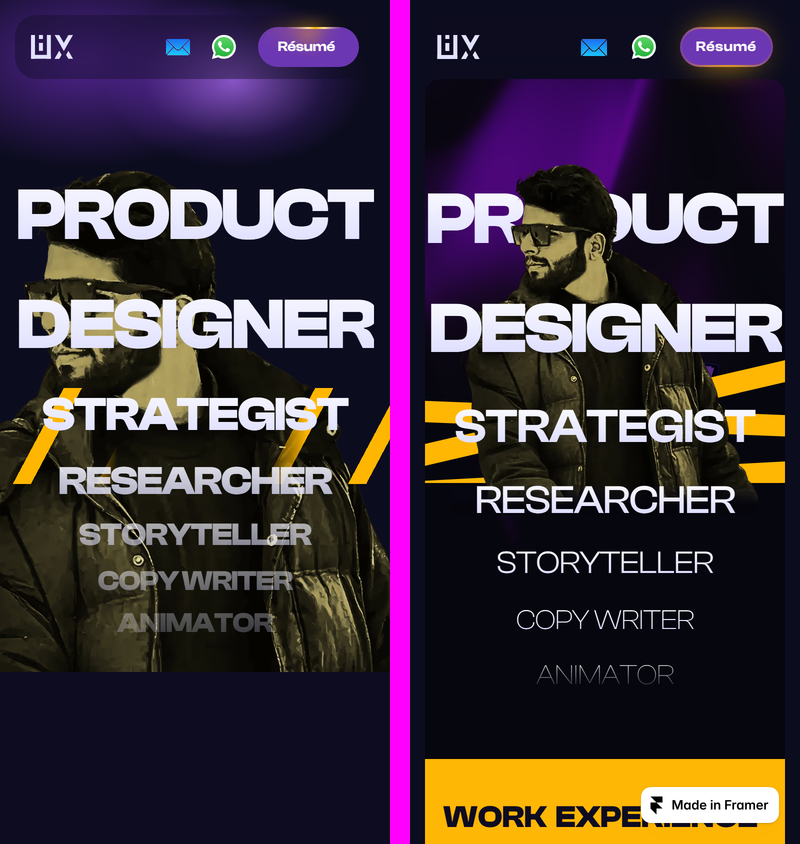
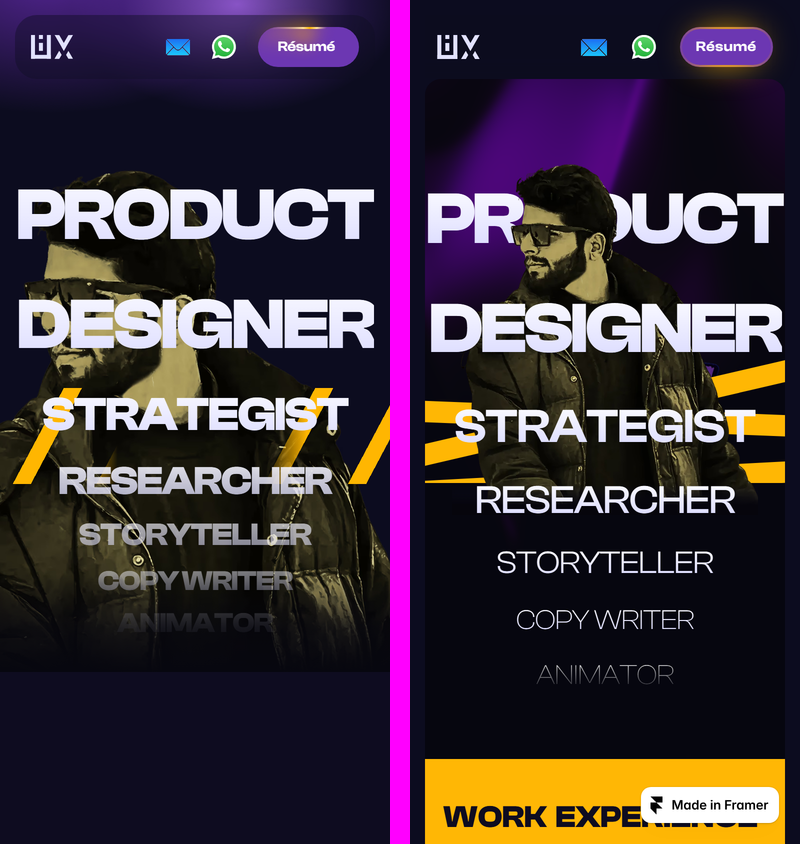
Hero: fix O centring, ripple, z-order, badge-lift, living background
1) O ring + WhatsApp icon now concentric on the O counter (nudged to the
   glyph's optical centre; line-box centre sat below it)
2) Ripple: dashed stroke, larger radius (scale 3.8), faster (1.1s), loops
3) Z-order per direction: aurora < portrait < role text (z4) < UTKARSH
   badge (z6). Role now renders in front of the portrait.
4) Badge hover: graffiti lifts translateY(-80px) revealing the info card
   below it (GPU transform); badge stays top-most. Gated to fine pointer;
   reduced-motion disables the transition.
5) Living background: two independently-drifting/scaling blob layers
   (pseudo-elements, long eased loops, transform/opacity only), still ramps
   to black at the bottom; frozen under reduced-motion.

Changed region(s): [[0.0, 0.0, 0.4688, 0.1848], [0.0938, 0.6777, 0.4688, 0.8009], [0.0, 0.7393, 0.0625, 0.8009]]

diff --git a/src/components/hero.css b/src/components/hero.css
@@ -10,22 +10,51 @@
 }
 
 /* Purple aurora background */
+/* Living aurora: a base wash + two independently-drifting blob layers (GPU transforms). */
 .hero__aurora {
   position: absolute;
-  inset: -12%;
+  inset: 0;
   z-index: 0;
+  overflow: hidden;
   background:
-    radial-gradient(38% 34% at 55% 20%, rgba(180, 110, 255, 0.75) 0%, rgba(140, 70, 235, 0.3) 45%, rgba(12, 12, 31, 0) 72%),
-    radial-gradient(44% 46% at 14% 30%, rgba(150, 60, 255, 0.8) 0%, rgba(110, 45, 210, 0.25) 44%, rgba(12, 12, 31, 0) 70%),
-    radial-gradient(50% 50% at 78% 22%, rgba(160, 80, 255, 0.72) 0%, rgba(110, 50, 195, 0.22) 46%, rgba(12, 12, 31, 0) 74%);
-  background-color: var(--bg-dark-3);
-  animation: aurora-drift 18s ease-in-out infinite alternate;
-  will-change: transform;
+    radial-gradient(46% 40% at 52% 16%, rgba(150, 70, 240, 0.5) 0%, rgba(90, 40, 180, 0.18) 46%, rgba(12, 12, 31, 0) 74%),
+    var(--bg-dark-3);
 }
-@keyframes aurora-drift {
-  0% { transform: translate3d(-1.5%, -1%, 0) scale(1.02); }
-  50% { transform: translate3d(2%, 1.5%, 0) scale(1.08); }
-  100% { transform: translate3d(-1%, 2%, 0) scale(1.04); }
+.hero__aurora::before,
+.hero__aurora::after {
+  content: '';
+  position: absolute;
+  border-radius: 50%;
+  will-change: transform, opacity;
+  filter: blur(10px);
+}
+/* upper-left violet blob */
+.hero__aurora::before {
+  width: 70%;
+  height: 80%;
+  left: -12%;
+  top: -22%;
+  background: radial-gradient(closest-side, rgba(150, 60, 255, 0.7) 0%, rgba(120, 50, 220, 0.25) 42%, rgba(12, 12, 31, 0) 72%);
+  animation: aurora-a 19s ease-in-out infinite alternate;
+}
+/* upper-right magenta/violet blob */
+.hero__aurora::after {
+  width: 66%;
+  height: 74%;
+  right: -14%;
+  top: -18%;
+  background: radial-gradient(closest-side, rgba(175, 95, 255, 0.65) 0%, rgba(120, 55, 210, 0.22) 44%, rgba(12, 12, 31, 0) 74%);
+  animation: aurora-b 24s ease-in-out infinite alternate;
+}
+@keyframes aurora-a {
+  0% { transform: translate3d(0, 0, 0) scale(1); opacity: 0.9; }
+  50% { transform: translate3d(14%, 8%, 0) scale(1.18); opacity: 1; }
+  100% { transform: translate3d(6%, -6%, 0) scale(1.05); opacity: 0.85; }
+}
+@keyframes aurora-b {
+  0% { transform: translate3d(0, 0, 0) scale(1.05); opacity: 0.8; }
+  50% { transform: translate3d(-12%, 10%, 0) scale(0.92); opacity: 1; }
+  100% { transform: translate3d(-4%, 4%, 0) scale(1.12); opacity: 0.88; }
 }
 /* bottom ramp to black (fades portrait bottom + bg) */
 .hero__fade {
@@ -40,12 +69,13 @@
 }
 
 /* Wordmark + role ticker */
+/* .hero__text is not a stacking context, so PRODUCT (z1, behind portrait) and the
+   role ticker (z4, above portrait) can layer independently. */
 .hero__text {
   position: absolute;
   top: calc(196 * var(--u));
   left: calc(44 * var(--u));
   width: calc(1353 * var(--u));
-  z-index: 1;
 }
 .hero__product,
 .role__word {
@@ -62,6 +92,8 @@
   margin: 0;
   font-size: calc(282 * var(--u));
   white-space: nowrap;
+  position: relative;
+  z-index: 1; /* behind portrait */
 }
 .hero__o {
   position: relative;
@@ -76,7 +108,7 @@
 /* WhatsApp reveal on hover (over the O counter) */
 .hero__o-wa {
   position: absolute;
-  top: 50%;
+  top: 45%;
   left: 50%;
   width: calc(150 * var(--u));
   height: calc(150 * var(--u));
@@ -107,29 +139,30 @@
   position: absolute;
   top: 50%;
   left: 50%;
-  width: calc(60 * var(--u));
-  height: calc(60 * var(--u));
-  margin: calc(-30 * var(--u)) 0 0 calc(-30 * var(--u));
+  width: calc(72 * var(--u));
+  height: calc(72 * var(--u));
+  margin: calc(-36 * var(--u)) 0 0 calc(-36 * var(--u));
   border-radius: 50%;
-  border: 2px solid rgba(37, 211, 102, 0.7);
+  border: calc(3 * var(--u)) dashed rgba(37, 211, 102, 0.85);
   opacity: 0;
+  will-change: transform, opacity;
 }
 @media (hover: hover) and (pointer: fine) {
   .hero__o:hover .hero__o-wa { opacity: 1; }
   .hero__o:hover .hero__wa { transform: scale(1); }
-  .hero__o:hover .hero__ripple { animation: o-ripple 1.8s ease-out infinite; }
-  .hero__o:hover .hero__ripple:nth-child(2) { animation-delay: 0.6s; }
-  .hero__o:hover .hero__ripple:nth-child(3) { animation-delay: 1.2s; }
+  .hero__o:hover .hero__ripple { animation: o-ripple 1.1s ease-out infinite; }
+  .hero__o:hover .hero__ripple:nth-child(2) { animation-delay: 0.37s; }
+  .hero__o:hover .hero__ripple:nth-child(3) { animation-delay: 0.74s; }
 }
 @keyframes o-ripple {
-  0% { transform: scale(0.6); opacity: 0.75; }
-  100% { transform: scale(2.6); opacity: 0; }
+  0% { transform: scale(0.45); opacity: 0.85; }
+  100% { transform: scale(3.8); opacity: 0; }
 }
 
 /* Rotating badge over the O */
 .badge {
   position: absolute;
-  top: 50%;
+  top: 45%;
   left: 50%;
   width: calc(224 * var(--u));
   height: calc(224 * var(--u));
@@ -157,6 +190,7 @@
   position: relative;
   overflow: hidden;
   width: 100%;
+  z-index: 4; /* above the portrait */
 }
 .role__stack { display: flex; flex-direction: column; will-change: transform; }
 .role__word {
@@ -198,19 +232,27 @@
 }
 .hero__face img { width: 100%; height: auto; }
 
-/* Graffiti wordmark */
+/* Graffiti "UTKARSH VERMA" badge — top-most; lifts 80px on hover to reveal the card below */
 .hero__graffiti {
   position: absolute;
-  z-index: 4;
+  z-index: 6; /* top-most */
   left: calc(605 * var(--u));
   top: calc(623 * var(--u));
   width: calc(231 * var(--u));
 }
-.hero__graffiti img { width: 100%; height: auto; display: block; }
+.hero__graffiti-img {
+  position: relative;
+  z-index: 2; /* above the card, so it covers/reveals it */
+  display: block;
+  transform: translateY(0);
+  transition: transform 0.45s cubic-bezier(0.22, 1, 0.36, 1); /* ~approx; distance = 80px per direction */
+}
+.hero__graffiti-img img { width: 100%; height: auto; display: block; }
 .hero__thatsme {
   position: absolute;
   right: calc(-18 * var(--u));
   bottom: calc(-14 * var(--u));
+  z-index: 3;
   font-family: var(--font-script-2);
   font-size: calc(20 * var(--u));
   color: var(--white);
@@ -220,33 +262,33 @@
   white-space: nowrap;
   pointer-events: none;
 }
-/* graffiti-hover info card at the bottom of the hero */
-.hero__tooltip {
+/* info card revealed below the badge when it lifts */
+.hero__graffiti-card {
   position: absolute;
-  z-index: 5;
+  z-index: 1; /* behind the badge img */
+  top: calc(74 * var(--u));
   left: 50%;
-  bottom: calc(292 * var(--u));
-  transform: translate(-50%, 8px);
-  width: calc(1000 * var(--u));
-  max-width: 92%;
+  transform: translate(-50%, 0);
+  width: calc(660 * var(--u));
+  max-width: 88vw;
   padding: calc(16 * var(--u)) calc(28 * var(--u));
   border-radius: calc(16 * var(--u));
-  background: rgba(236, 236, 245, 0.86);
+  background: rgba(236, 236, 245, 0.88);
   backdrop-filter: blur(6px);
   -webkit-backdrop-filter: blur(6px);
   text-align: center;
   opacity: 0;
-  transition: opacity 0.28s ease, transform 0.28s ease;
+  transition: opacity 0.35s ease;
   pointer-events: none;
 }
-.hero__tooltip-title {
+.hero__gcard-title {
   font-family: var(--font-display);
   font-weight: 600;
   font-size: calc(20 * var(--u));
   color: var(--bg-dark-3);
   margin-bottom: calc(6 * var(--u));
 }
-.hero__tooltip-body {
+.hero__gcard-body {
   font-family: var(--font-body);
   font-weight: 700;
   font-size: calc(20 * var(--u));
@@ -254,8 +296,9 @@
   line-height: 1.3;
 }
 @media (hover: hover) and (pointer: fine) {
-  .hero__graffiti:hover .hero__thatsme { opacity: 1; transform: translateY(0); }
-  .hero__graffiti:hover ~ .hero__tooltip { opacity: 1; transform: translate(-50%, 0); }
+  .hero__graffiti:hover .hero__graffiti-img { transform: translateY(-80px); }
+  .hero__graffiti:hover .hero__thatsme { opacity: 1; transform: translateY(-80px); }
+  .hero__graffiti:hover .hero__graffiti-card { opacity: 1; }
 }
 
 /* Mobile-only elements hidden on desktop */
@@ -264,8 +307,9 @@
 
 @media (prefers-reduced-motion: reduce) {
   .badge__svg { animation: none; }
-  .hero__aurora { animation: none; }
+  .hero__aurora::before, .hero__aurora::after { animation: none; }
   .hero__o:hover .hero__ripple { animation: none; }
+  .hero__graffiti-img, .hero__thatsme { transition: none; }
 }
 
 /* ================= Phone hero (<= 809.98px) ================= */

diff --git a/src/components/Hero.tsx b/src/components/Hero.tsx
@@ -50,24 +50,22 @@ export function Hero() {
         </ul>
       </div>
 
-      {/* graffiti wordmark (front, over portrait chest) — hover reveals the info card */}
+      {/* bottom ramp: fades the portrait's lower edge + the background into black */}
+      <div className="hero__fade" aria-hidden="true" />
+
+      {/* graffiti "UTKARSH VERMA" badge — top-most. On hover it lifts 80px, revealing the card below it. */}
       <div className="hero__graffiti">
-        <picture>
+        <div className="hero__graffiti-card" aria-hidden="true">
+          <p className="hero__gcard-title">ENGINEER TURNED ARTIST</p>
+          <p className="hero__gcard-body">
+            7+ years of shaping ideas into sleek digital realities with intent, speed, functionality, business &amp; visual clarity
+          </p>
+        </div>
+        <picture className="hero__graffiti-img">
           <source srcSet="/images/graffiti.avif" type="image/avif" />
           <img src="/images/graffiti.webp" alt="Utkarsh Verma" width={700} height={424} />
         </picture>
         <span className="hero__thatsme" aria-hidden="true">That&rsquo;s me</span>
-      </div>
-
-      {/* bottom ramp: fades the portrait's lower edge + the background into black */}
-      <div className="hero__fade" aria-hidden="true" />
-
-      {/* graffiti-hover info card (bottom of hero) */}
-      <div className="hero__tooltip" aria-hidden="true">
-        <p className="hero__tooltip-title">ENGINEER TURNED ARTIST</p>
-        <p className="hero__tooltip-body">
-          7+ years of shaping ideas into sleek digital realities with intent, speed, functionality, business &amp; visual clarity
-        </p>
       </div>
     </section>
   );
